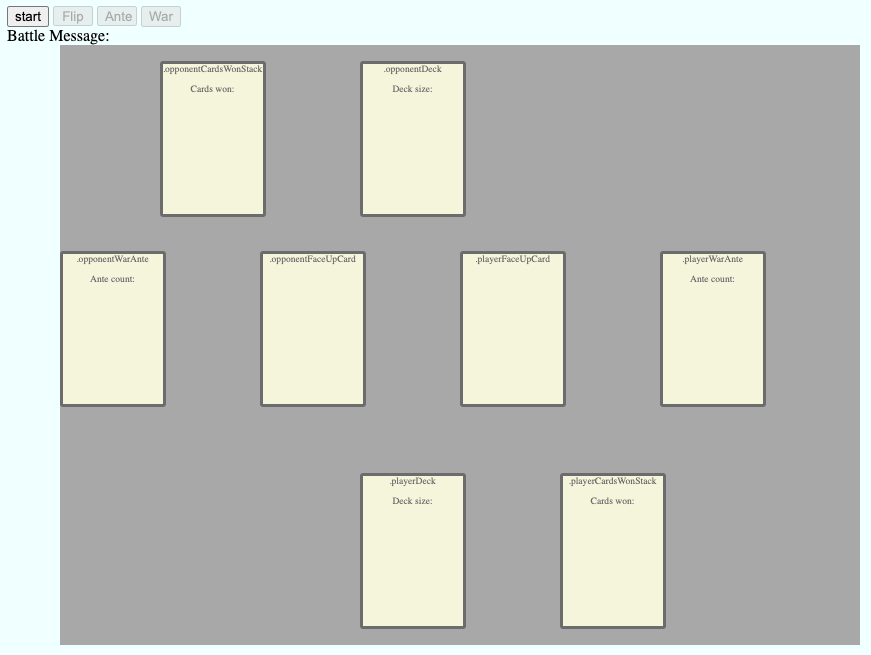
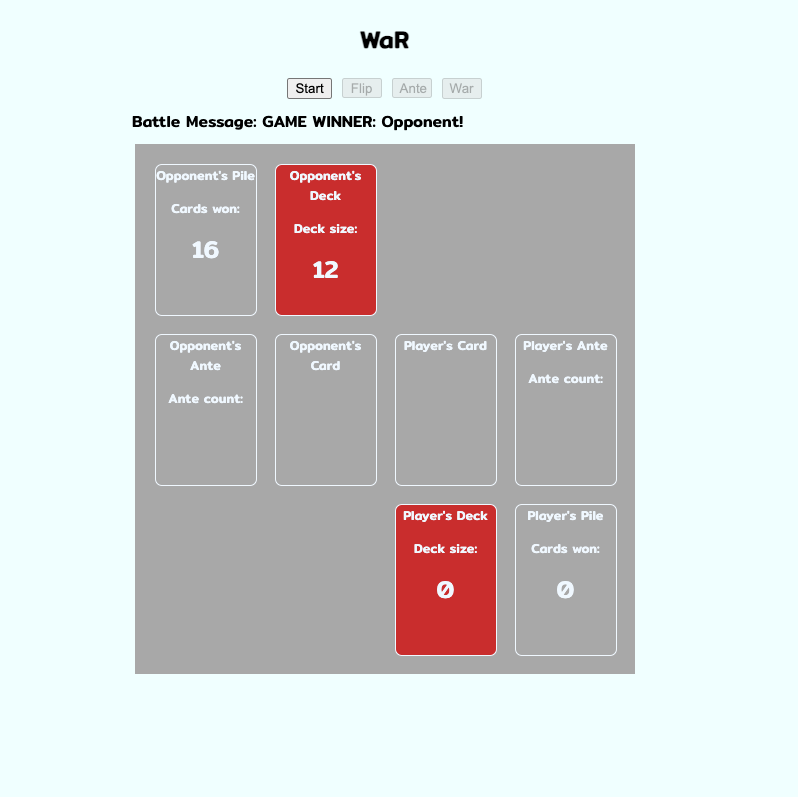
cleanup, update screenshot

diff --git a/main.js b/main.js
@@ -39,19 +39,18 @@ function winCondition() {
         flipButton.disabled = true
         anteButton.disabled = true
         warButton.disabled = true
-        clearMessage()
+        
     } else if (opponent.deck.length + opponent.cardsWon.length <= 0) {
         winMessage.textContent = " GAME WINNER: PLAYER!"
         startButton.disabled = false
         flipButton.disabled = true
         anteButton.disabled = true
         warButton.disabled = true
-        clearMessage()
     }
 }
 
 function makeDeck() {
-    let cardType = [' spade', ' club']
+    let cardType = [' S', ' C']
     let cards = ['2', '3', '4', '5', '6', '7', '8', '9', '10', '11', '12', '13', '14']
     let deck = []
     for (i = 0; i < cardType.length; i++) {
@@ -103,8 +102,6 @@ function flipCard() {
     }
     playerDeckSize.textContent = player.deck.length
     opponentDeckSize.textContent = opponent.deck.length
-    // winCondition()
-    // clearMessage()
 }
 
 function warFlipCard() {
@@ -120,12 +117,6 @@ function warFlipCard() {
     }
     playerDeckSize.textContent = player.deck.length
     opponentDeckSize.textContent = opponent.deck.length
-    // winCondition()
-    // clearMessage()
-}
-
-function clearMessage() {
-    compareOutcomeMessage.innerHTML = ""
 }
 
 function playerWins() {
@@ -166,6 +157,7 @@ function playerWinsWar() {
     compareOutcomeMessage.innerHTML = "player had the high card!"
     flipButton.disabled = false
     warButton.disabled = true
+    winCondition()
 }
 
 function opponentWinsWar() {
@@ -184,6 +176,7 @@ function opponentWinsWar() {
     compareOutcomeMessage.innerHTML = "Opponent had the high card!"
     flipButton.disabled = false
     warButton.disabled = true
+    winCondition()
 }
 
 function war() {

diff --git a/style.css b/style.css
@@ -1,22 +1,45 @@
 nav {
     text-align: center;
 }
+
 body {
     background-color: azure;
     color: rgb(0, 0, 0);
     user-select: none;
     font-family: 'Mitr', sans-serif;
 }
+
 .controls {
     display: flex;
     flex-direction: row;
     justify-content: center;
     gap: 10px;
 }
+
+.startButton {
+    width: 40px;
+    height: 20px;
+}
+
+.flip {
+    width: 40px;
+    height: 20px;
+}
+
+.ante {
+    width: 40px;
+    height: 20px;
+}
+
+.warButton {
+    width: 40px;
+    height: 20px;
+}
+
 .outcome {
     margin: 10px 0 10px 200px;
-
 }
+
 .container {
     display: grid;
 }
@@ -57,8 +80,6 @@ body {
     background-color: rgb(201, 45, 45);
     grid-column: 2 / span 1;
     grid-row: 1 / span 1;
-
-
 }
 
 .opponentWarAnte {
@@ -68,7 +89,7 @@ body {
     font-size: 80%;
     width: 100px;
     height: 150px;
-    text-align: center; 
+    text-align: center;
     grid-column: 1 / span 1;
     grid-row: 2 / span 1;
 }
@@ -80,7 +101,7 @@ body {
     font-size: 80%;
     width: 100px;
     height: 150px;
-    text-align: center;   
+    text-align: center;
     grid-column: 2 / span 1;
     grid-row: 2 / span 1;
 }
@@ -107,16 +128,6 @@ body {
     text-align: center;
     grid-column: 4 / span 1;
     grid-row: 2 / span 1;
-}
-
-.ante {
-    width: 40px;
-    height: 20px;
-}
-
-.flip {
-    width: 40px;
-    height: 20px;
 }
 
 .playerDeck {

diff --git a/index.html b/index.html
@@ -15,7 +15,6 @@
 <nav>
     <h2>WaR</h2>
 </nav>
-
 <body>
     <div class="controls">
         <button class="startButton">Start</button>
@@ -41,10 +40,10 @@
             <div class="opponentFaceUpCard">Opponent's Card
                 <p class="bigNumber" id="opponentCardView"></p>
             </div>
-            <div class="playerFaceUpCard">Player's Card
+            <div class="playerFaceUpCard">Player's<br> Card
                 <p class="bigNumber" id="playerCardView"></p>
             </div>
-            <div class="playerWarAnte">Player's Ante
+            <div class="playerWarAnte">Player's<br> Ante
                 <p>Ante count:</p>
                 <p><span class="bigNumber" id="playerWarAnteCount"></span></p>
             </div>
@@ -60,5 +59,4 @@
         </div>
     </div>
 </body>
-
 </html>

diff --git a/readme.md b/readme.md
@@ -21,7 +21,7 @@ Try the game -
 4. Try to win all the cards.        
 
 ## Next Steps:
-- Additional CSS styling - play area and cards.
+- Additional CSS styling - play area and card visuals.
 - Card animations - Cards sliding from zone to zone.
 - Button updates - Reduce the number of buttons that the user needs to interact with.
 - The ability to ante more that 3 cards at a time.
